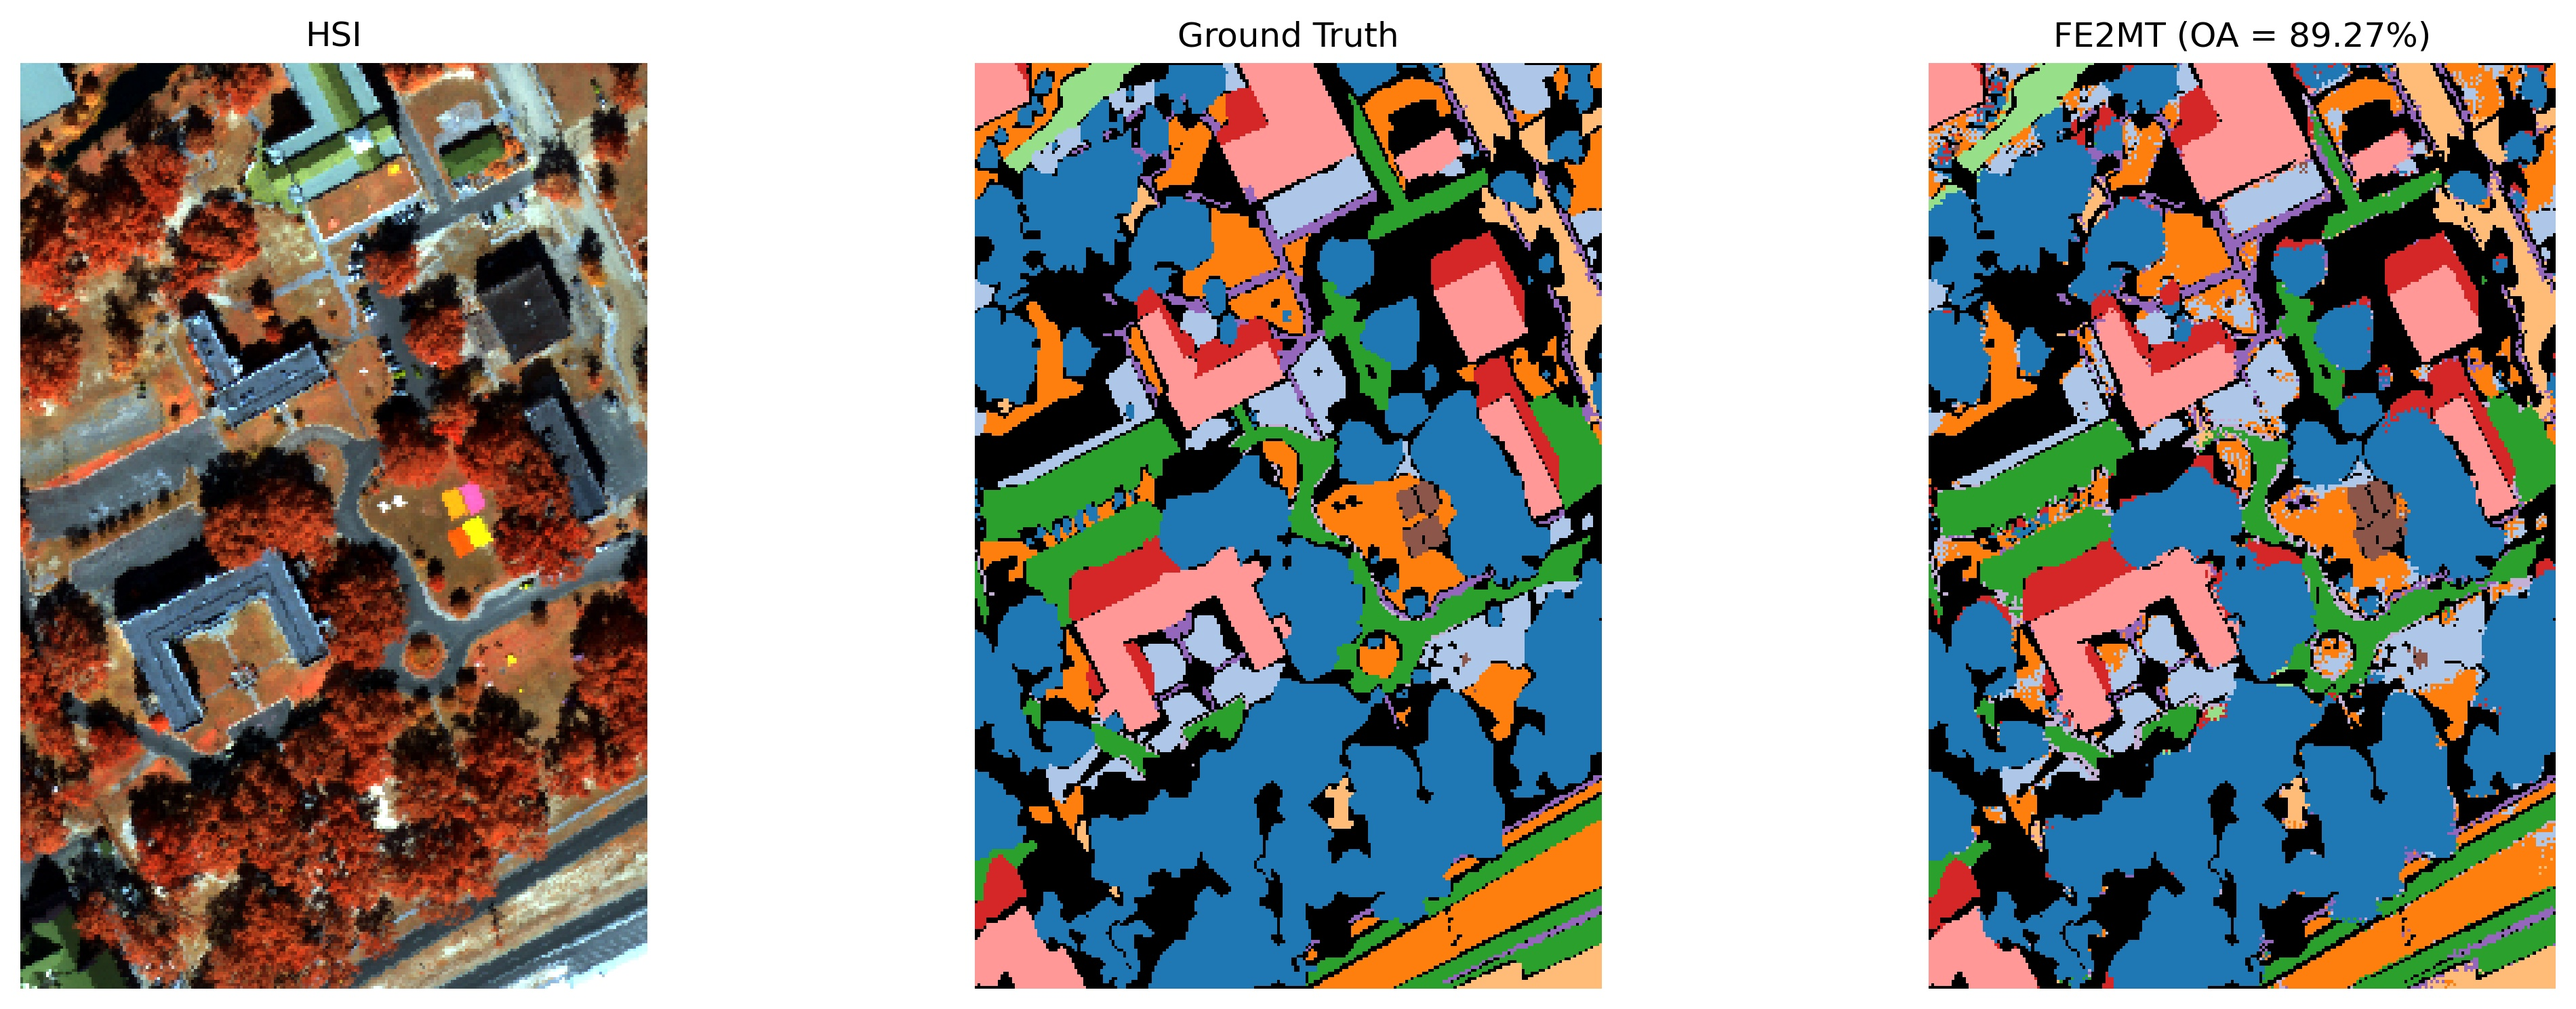
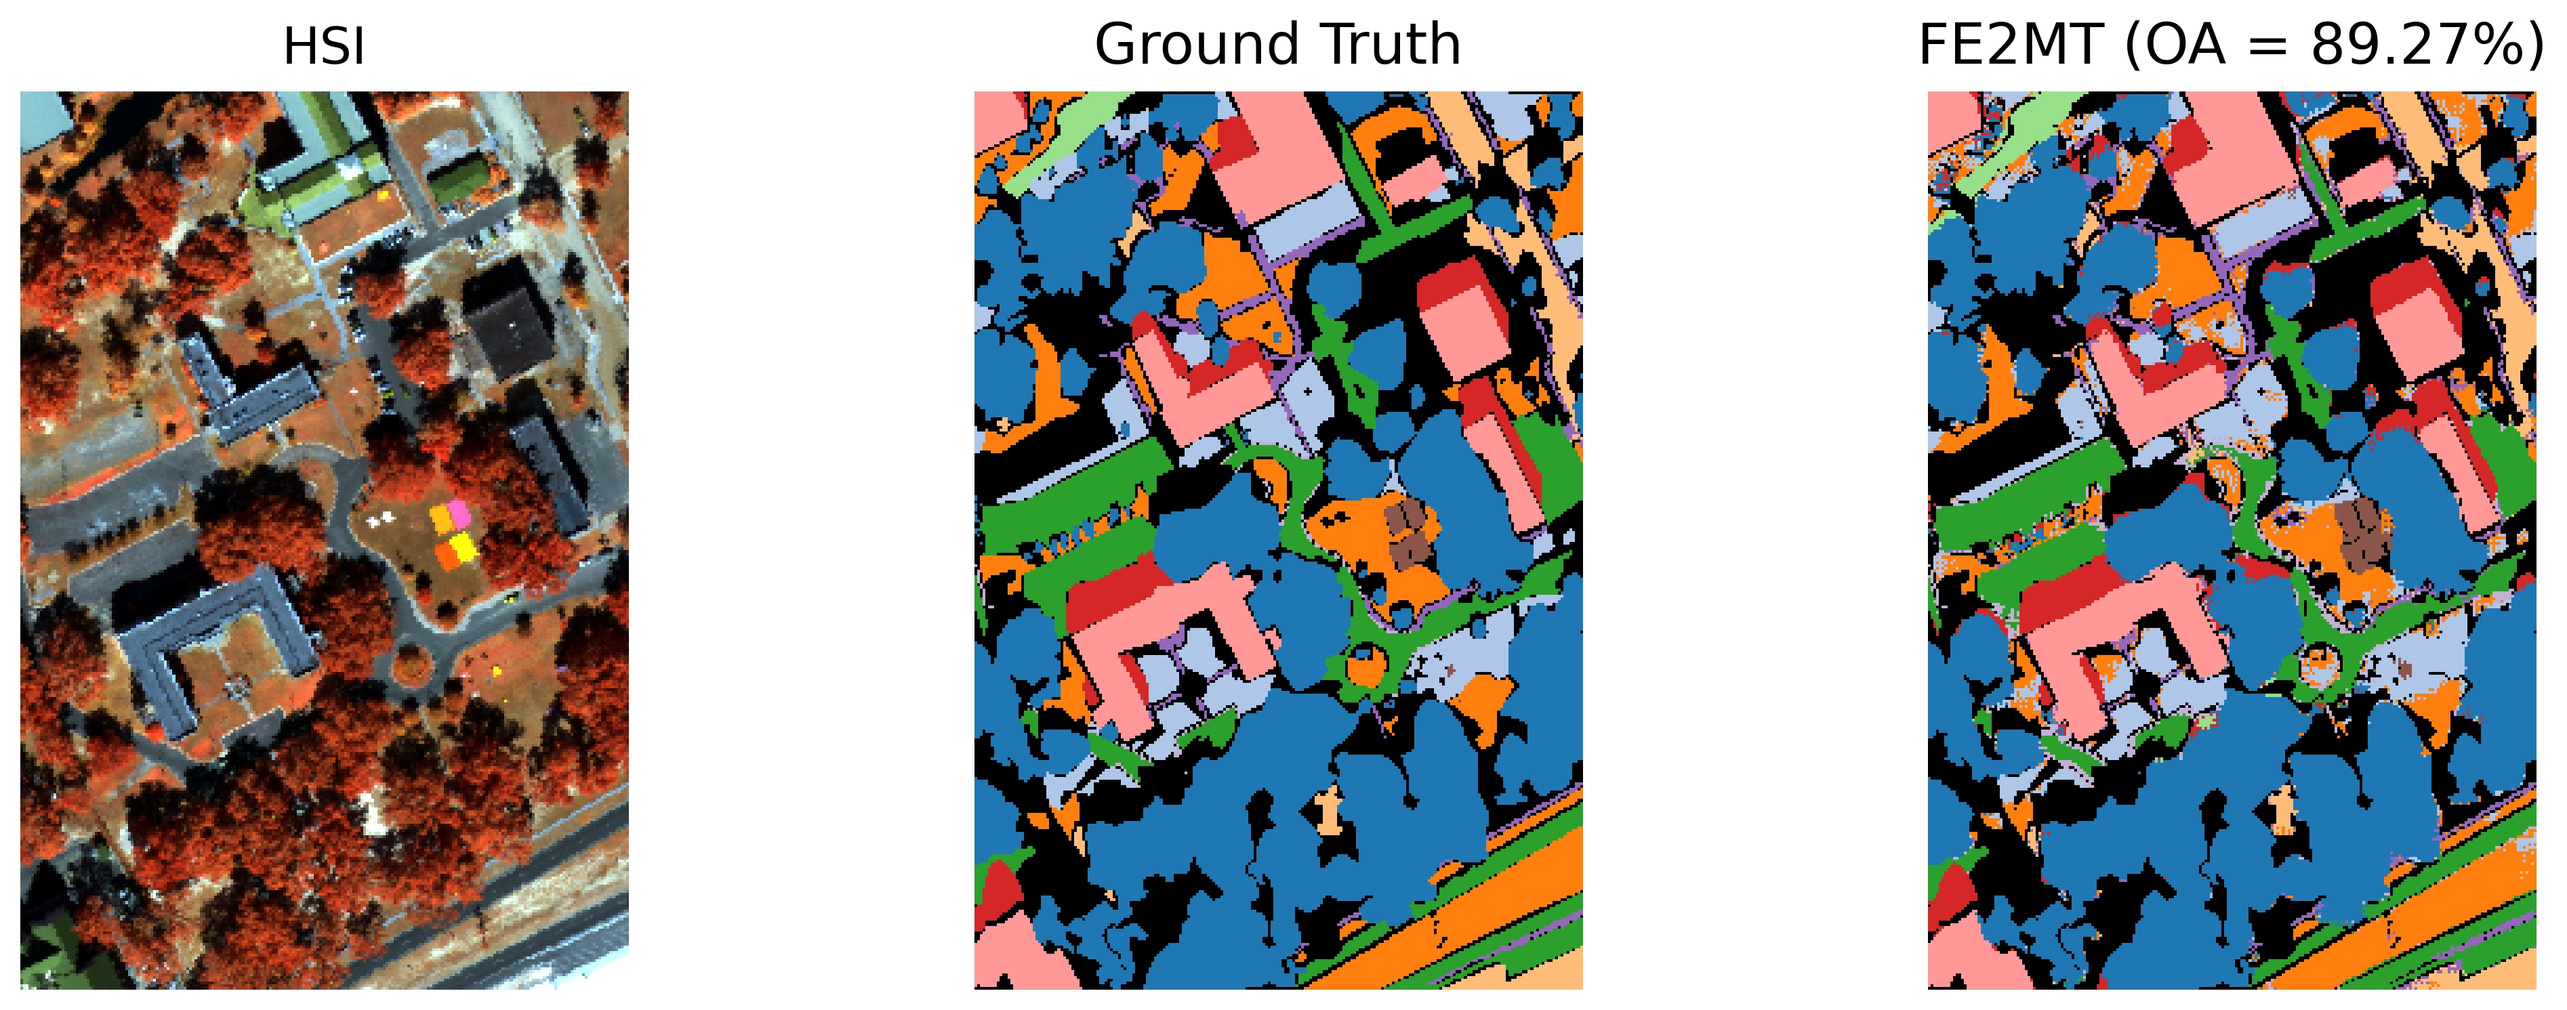
Update figure title font size

diff --git a/visualize_results.py b/visualize_results.py
@@ -241,7 +241,7 @@ def save_result_figure(
     fig, axes = plt.subplots(1, 3, figsize=(15, 5))
 
     axes[0].imshow(rgb)
-    axes[0].set_title("HSI")
+    axes[0].set_title("HSI", fontsize=18, pad=10)
 
     axes[1].imshow(
         gt,
@@ -249,7 +249,7 @@ def save_result_figure(
         norm=norm,
         interpolation="nearest",
     )
-    axes[1].set_title("Ground Truth")
+    axes[1].set_title("Ground Truth", fontsize=20, pad=10)
 
     axes[2].imshow(
         prediction_map,
@@ -257,7 +257,11 @@ def save_result_figure(
         norm=norm,
         interpolation="nearest",
     )
-    axes[2].set_title(f"FE2MT (OA = {oa * 100:.2f}%)")
+    axes[2].set_title(
+        f"FE2MT (OA = {oa * 100:.2f}%)",
+        fontsize=20,
+        pad=10,
+    )
 
     for axis in axes:
         axis.axis("off")
